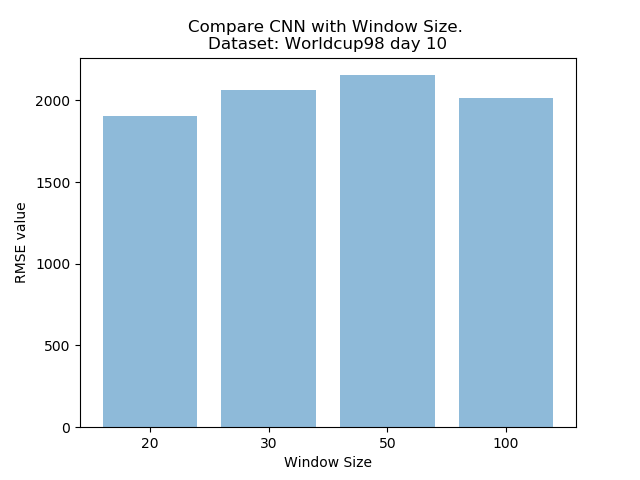
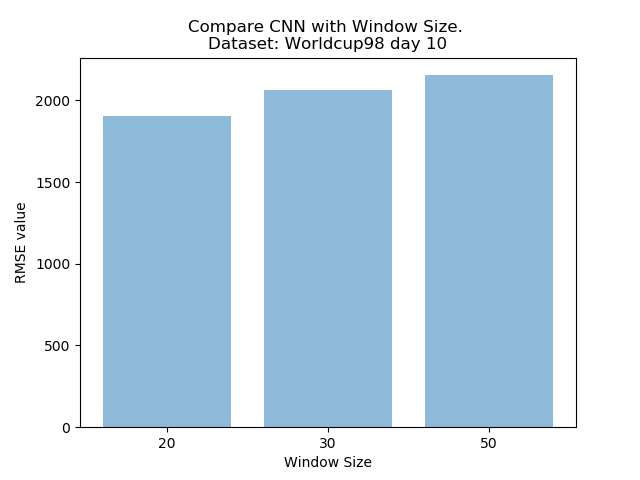
Cap nhat lai ten cac file va cap nhat tong quan CNN trong file README.md

diff --git a/CNN4Predict/summary/summary_compare.py b/CNN4Predict/summary/summary_compare.py
@@ -4,17 +4,20 @@ plt.rcdefaults()
 import numpy as np
 import matplotlib.pyplot as plt
 
-objects = ('WS20', 'WS30', 'WS50', 'WS100',
-           'S_1', 'S_2', 'S_3', 'S_4', 'S_5', 'S_6', 'S_7', 'S_8', 'S_9', 'S_10')
+objects = ('CNN20', 'CNN30', 'CNN50',
+           'SHIFT1', 'SHIFT2', 'SHIFT3', 'SHIFT4', 'SHIFT5', 'SHIFT6', 'SHIFT7', 'SHIFT8',
+           'SHIFT9', 'SHIFT10')
 y_pos = np.arange(len(objects))
-performance = [1902.87284303, 2063.40084354, 2153.71602735, 2016.07213814,
+performance = [1902.87284303, 2063.40084354, 2153.71602735,
                1441.89578141, 1989.59641182, 2295.07658429, 2485.18673985, 2475.3338327, 2459.47172512,
                2492.31457853, 2564.36139034, 2616.64719207, 2770.02205542
                ]
 
-plt.bar(y_pos, performance, align='center', alpha=0.5)
+bar_list = plt.bar(y_pos, performance, align='center', alpha=0.5,)
 plt.xticks(y_pos, objects)
 plt.ylabel('RMSE value')
-plt.title('Compare CNN and K-shift. \nDataset: Worldcup98 day 10')
+for i in np.arange(3):
+    bar_list[i].set_color('r')
+plt.title('Compare CNN-WindowSize and Shift-K. \nDataset: Worldcup98 day 10')
 plt.savefig('overall_summary.png')
 plt.show()

diff --git a/CNN4Predict/utils.py b/CNN4Predict/utils.py
@@ -92,7 +92,10 @@ def get_data(start, end, interval):
     s = np.arange(start, end + 1, 1)
     temp_output = []
     for index in s:
-        targeted_file = 'dataset_folder/wc_day' + str(index) + '_1_' + str(interval) + '.out'
+        if index < 10:
+            targeted_file = 'dataset_folder/wc_day' + '0' + str(index) + '_1_' + str(interval) + '.out'
+        else:
+            targeted_file = 'dataset_folder/wc_day' + str(index) + '_1_' + str(interval) + '.out'
         temp_output += get_single_data(targeted_file)
     return temp_output
 
@@ -128,4 +131,7 @@ def compared_shift_diagram(predicted_series, actual_series, shift_index):
     plt.xlim([0, 24])
     plt.title('Worldcup 98 data: Day 10')
     plt.legend(['Predicted time series ( shift_index = '+str(shift_index)+')', 'Actual time series'], loc='upper left')
-    plt.savefig('figure/shift-'+str(shift_index)+'.png')
+    if shift_index < 10:
+        plt.savefig('figure/shift-' + '0' + str(shift_index) + '.png')
+    else:
+        plt.savefig('figure/shift-' + str(shift_index) + '.png')

diff --git a/CNN4Predict/k_shift.py b/CNN4Predict/k_shift.py
@@ -5,7 +5,7 @@ import numpy as np
 from utils import compared_shift_diagram
 START_DAY = 6
 END_DAY = 10
-SHIFT_INDEX = 10
+SHIFT_INDEX = 1
 
 
 class ShiftPredict(object):
@@ -21,7 +21,10 @@ a = get_data(START_DAY, END_DAY, 600)
 b = ShiftPredict(a, SHIFT_INDEX)
 k_shift_time_series = b.predicted_series(720 - 144, 144)
 rmse_k_shift = np.sqrt(mean_squared_error(k_shift_time_series, a[720-144:720]))
-f = open("evaluate_result/shift-" + str(SHIFT_INDEX) + ".txt", "w")
+if SHIFT_INDEX<10:
+    f = open("evaluate_result/shift-" + '0' + str(SHIFT_INDEX) + ".txt", "w")
+else:
+    f = open("evaluate_result/shift-" + str(SHIFT_INDEX) + ".txt", "w")
 f.write("Shift index " + str(SHIFT_INDEX) + " : " + str(rmse_k_shift) + "\n")
 f.close()
 compared_shift_diagram(k_shift_time_series, a[720-144:720], SHIFT_INDEX)

diff --git a/CNN4Predict/summary/summary_cnn.py b/CNN4Predict/summary/summary_cnn.py
@@ -4,9 +4,9 @@ plt.rcdefaults()
 import numpy as np
 import matplotlib.pyplot as plt
 
-objects = ('20', '30', '50', '100')
+objects = ('20', '30', '50')
 y_pos = np.arange(len(objects))
-performance = [1902.87284303, 2063.40084354, 2153.71602735, 2016.07213814]
+performance = [1902.87284303, 2063.40084354, 2153.71602735]
 
 plt.bar(y_pos, performance, align='center', alpha=0.5)
 plt.xticks(y_pos, objects)

diff --git a/CNN4Predict/README.md b/CNN4Predict/README.md
@@ -1,0 +1,23 @@
+# Sử dụng CNN cho bài toán forecast time series
+
+## Tổng quan
+### Dataset 
+
+- Worldcup98 dataset day6-10
+
+### Input/Output
+- X = x[1], x[2], ..., x[n] là chuỗi các thông tin về số request trong khoảng thời gian 600s
+- Input: Các dãy số: x[t],x[t+1],...,x[t+k-1] (k > 0)
+- Output:x[t+k]
+- Train data: Day 6-9
+- Test data: Day 10
+- Tham số K: window_size của input, tức số neuron tại input layer
+
+### Mục tiêu
+
+- Đưa ra giá trị y sao cho hàm RMSE giữa các giá trị y dự đoán và x tương ứng khớp với nhau
+
+### So sánh hiệu quả của CNN
+- Tham chiếu hiệu quả thông qua hàm RMS
+- So sánh hiệu quả của CNN với các windoEw size: 20, 30, 50
+- So sánh hiệu quả của CNN với K-shift
